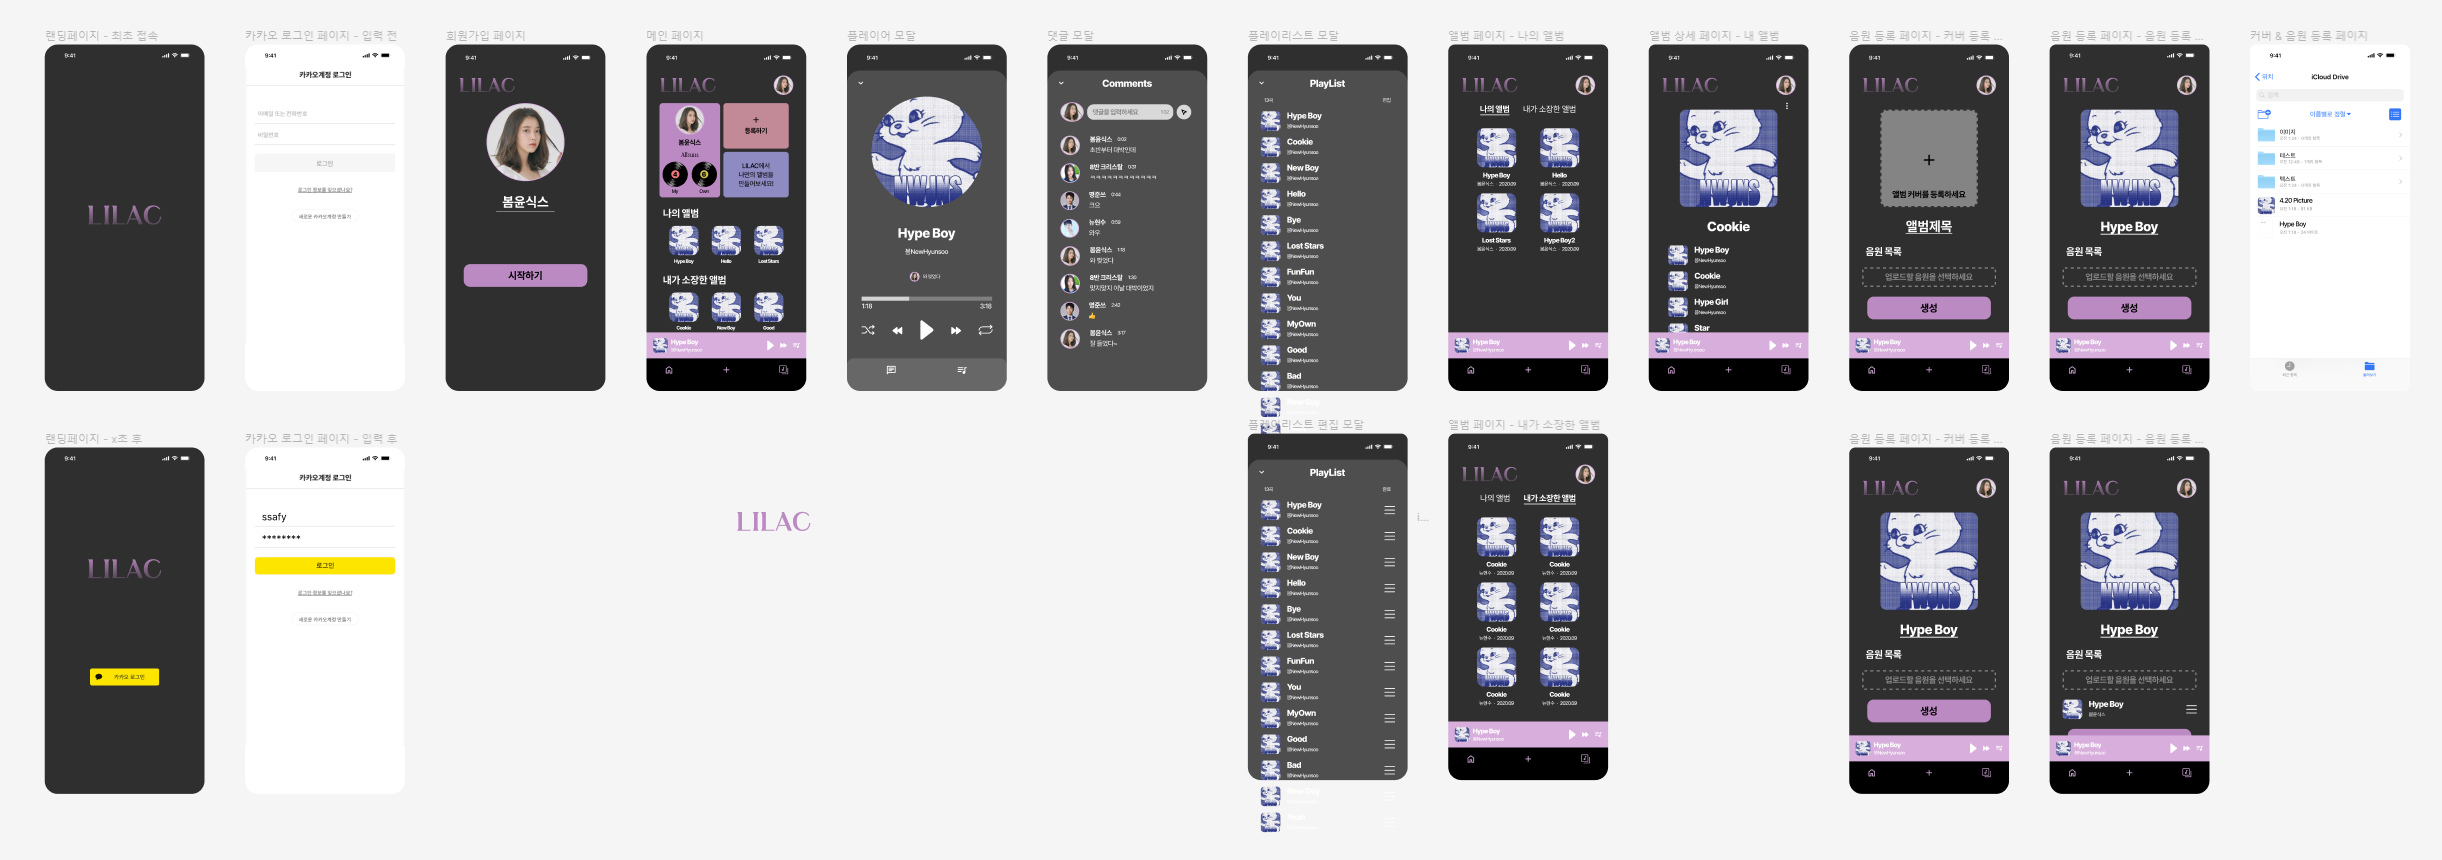
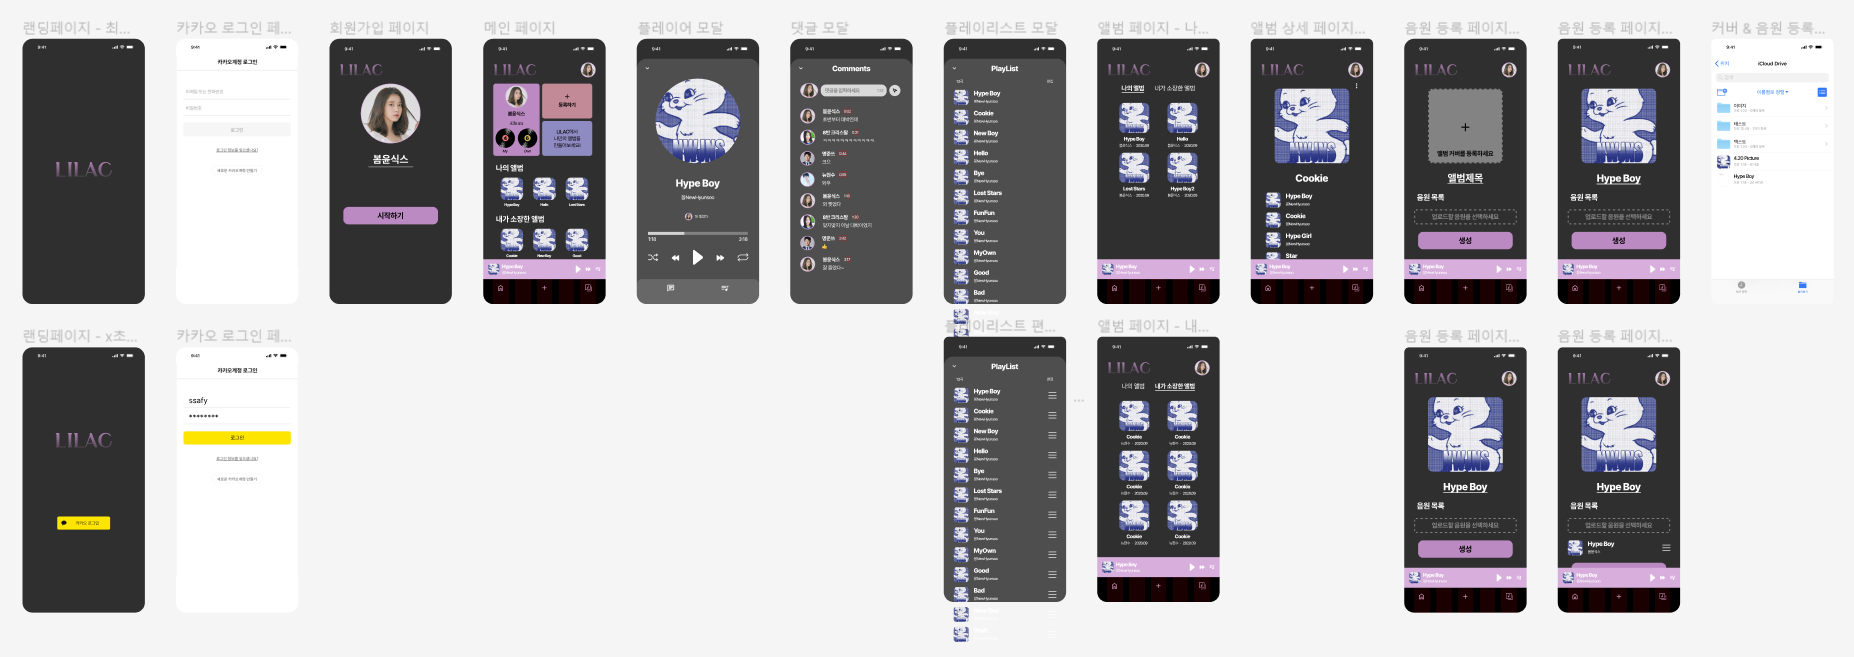
📋 Docs: README.md 수정
1. WireFrame 사진 Update
2. README.md 사진 경로 수정

Changed region(s): [[0.0, 0.0304, 0.9838, 0.9741], [0.0922, 0.4871, 0.1537, 0.5784], [0.3074, 0.5784, 0.3382, 0.6393]]

diff --git a/README.md b/README.md
@@ -20,15 +20,22 @@
 
 ## ✨ 프로젝트 핵심 기능
 
-## 🧑🏻💻 팀 구성
+## 👩🏻💻 팀 구성
 
 - 백엔드
+
   - 오윤식 - Team Leader
+
   - 김명준 - Backend Leader
+
   - 조수정 - CI/CD
+
 - 프론트엔드
+
   - 김현수 - Frontend Leader
+
   - 정소영 - Frontend Follower
+
   - 최윤지 - Design Leader
 
 ## 🔨 주요 기술
@@ -70,27 +77,27 @@
 
 ## 📝 요구사항정의서
 
-![요구사항정의서]()
+![요구사항정의서](https://user-images.githubusercontent.com/97906125/233523032-e30cf65f-cdb1-42d7-a39b-c9d669d81ceb.png)
 
 ## 💄 디자인 시안
 
-![디자인 시안](./docs/WireFrame.png)
+![디자인 시안](https://user-images.githubusercontent.com/97906125/233523381-75505f25-d20c-4779-982f-49e12a0731b4.png)
 
 ## 🔒 ERD
 
-![요구사항정의서](./docs/라일락-ERD.png)
+![요구사항정의서](https://user-images.githubusercontent.com/97906125/233522751-a51bd93b-2518-4325-b029-2408f2b5b46e.png)
 
 ## 📄 아키텍처 구성도
 
-![아키텍처 설계도](./docs/라일락-아키텍쳐설계도.png)
+![아키텍처 설계도](https://user-images.githubusercontent.com/97906125/233522945-e08da732-4429-45c5-9e62-ff1ead4913a8.png)
 
 ## 📄 시퀀스다이어그램
 
-![시퀀스다이어그램](./docs/라일락-시퀀스다이어그램.png)
+![시퀀스다이어그램](https://user-images.githubusercontent.com/97906125/233522989-47ec085d-3f7f-4fc5-b706-41ea05092b28.png)
 
 ## 📄 컴포넌트 명세서
 
-![컴포넌트 명세서1](./assets/Lilac_컴포넌트명세서.png)
+![컴포넌트 명세서1](https://user-images.githubusercontent.com/97906125/233523091-fe8b3dee-d96b-492a-b048-edb8eb852379.png)
 
 ## ⚙ 프로젝트 파일 구조
 
@@ -189,14 +196,20 @@
 ## 🗣 협업 환경
 
 - Jira
+
   - 프로젝트 스프린트를 정하고 한 주의 계획대로 프로젝트를 진행했습니다.
   - 팀원마다 주간 40의 Story Point를 설정하였습니다.
+
 - Notion
+
   - 데일리 회의 스크럼, 요구 사항 정의서, API 명세서등을 문서화했습니다.
   - 코딩 컨벤션, 깃 컨벤션 등 팀원간 개발 규칙을 정의했습니다.
+
 - Github
+
   - 코딩 컨벤션을 준수하며 프로젝트를 진행하였습니다.
   - Pull Request를 요청하고 팀원들과 코드리뷰를 진행하였습니다.
+
 - Figma
   - 웹 페이지의 디자인 와이어프레임, 시안을 제작하였습니다.
   - 서비스 프로토타입을 제작하였습니다.
